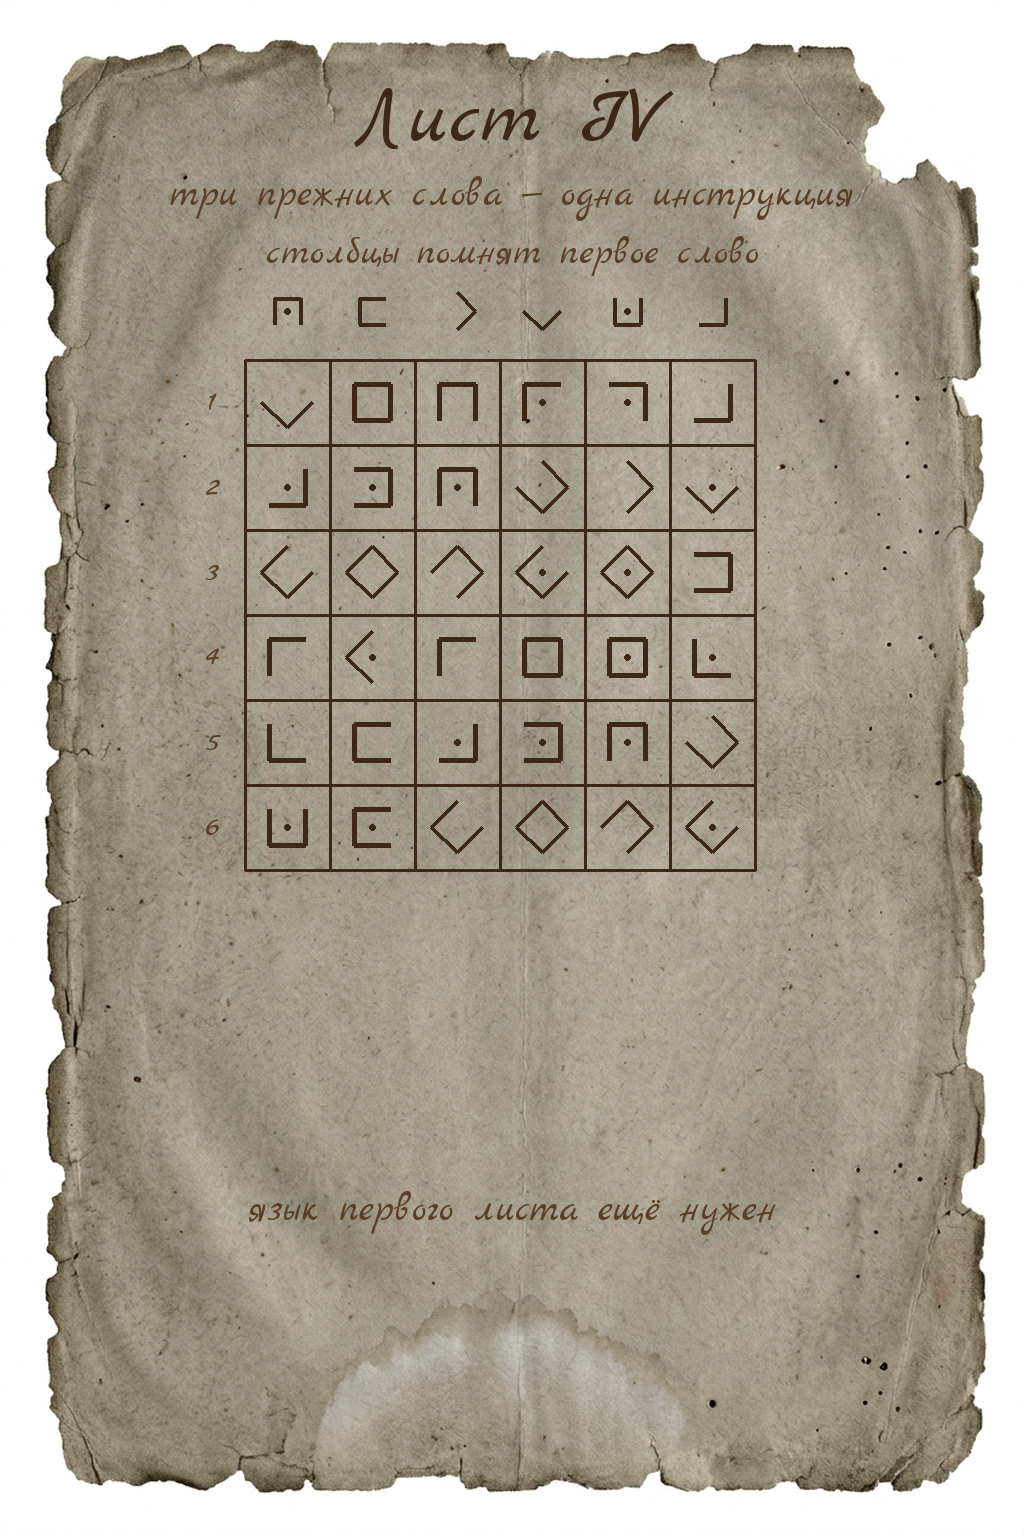
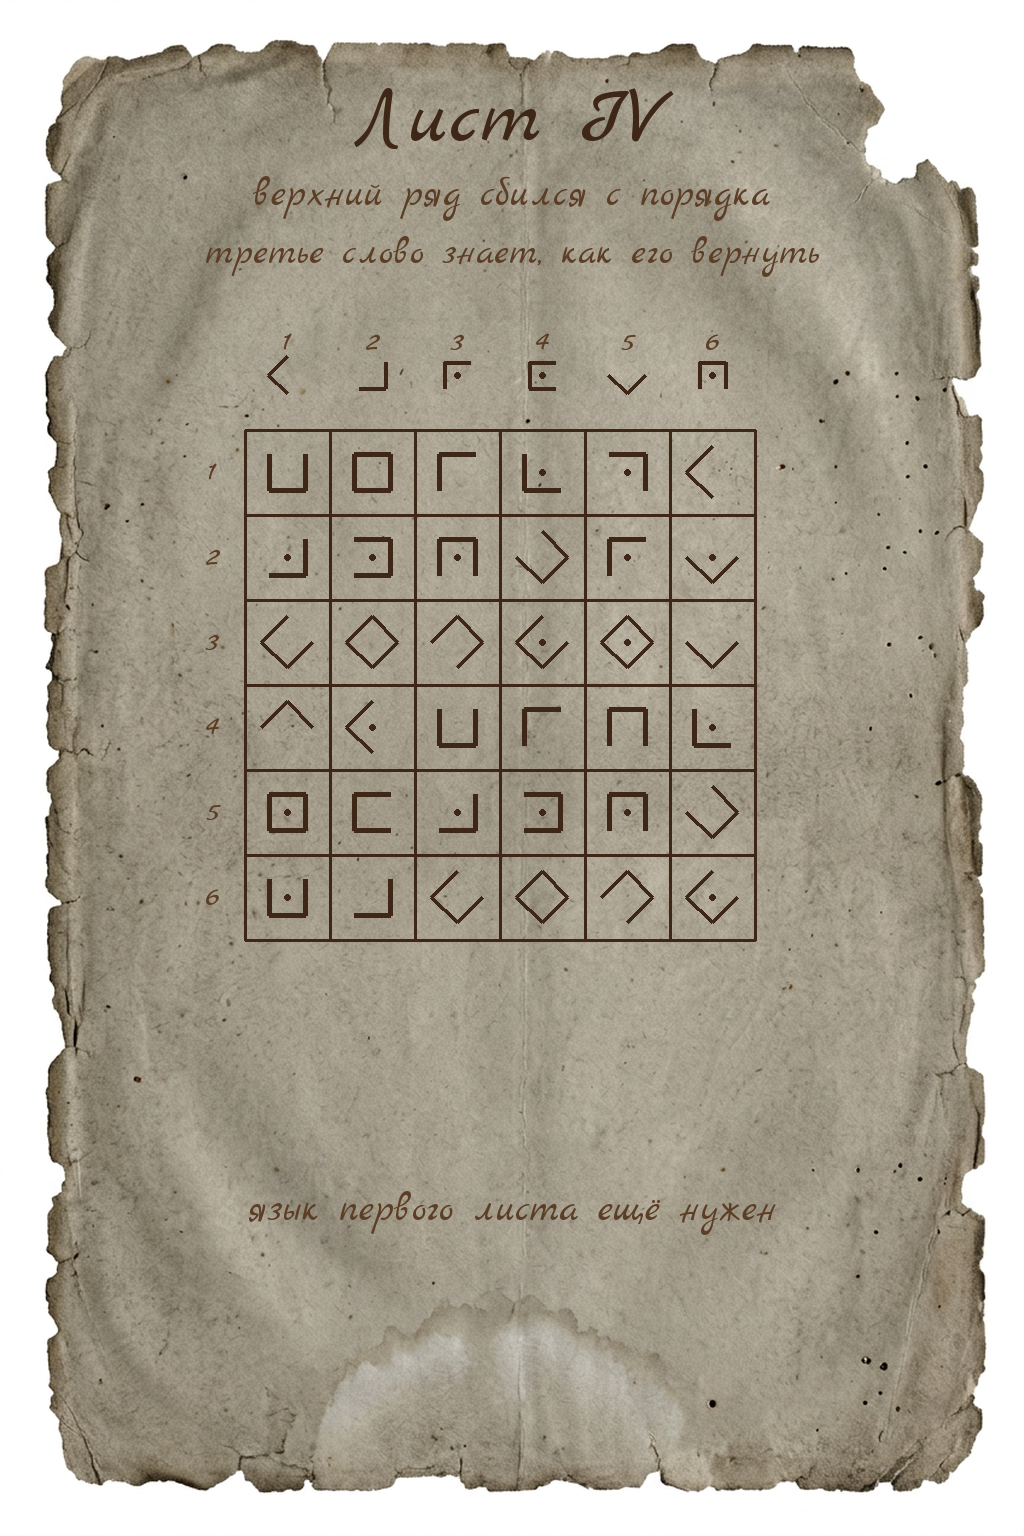
Key N3 sheet IV by a shuffled СТРОФА header.
Decode the pigpen cap as ФАСОТР, restore СТРОФА order, and the column
of each letter becomes the coordinate that reads ИСТИНА.

diff --git a/bot/tools/make_quest_assets.py b/bot/tools/make_quest_assets.py
@@ -665,12 +665,15 @@ def make_n3():
         polybius_pairs.append(f"{index // 6 + 1}{index % 6 + 1}")
     assert len(polybius_alphabet) == 33
     assert polybius_pairs == ["43", "14", "11", "41", "45", "16"]
-    # Финал: язык листа I в клетках, первое слово подписывает столбцы,
-    # пары листа III выбирают знаки. Pigpen этих клеток → ИСТИНА.
-    unique_key = "".join(dict.fromkeys(word1))
-    assert unique_key == "РЕШТКА"
+    # Финал: шапка — перемешанная СТРОФА языком листа I.
+    # Сортировка букв в порядок СТРОФА даёт столбцы по строкам 1…6 → ИСТИНА.
+    keyword = polybius_plain
+    header_key = "ФАСОТР"
+    assert sorted(header_key) == sorted(keyword)
+    assert header_key != keyword
     answer4 = "ИСТИНА"
-    picks = [(int(pair[0]), int(pair[1])) for pair in polybius_pairs]
+    picks = [(index + 1, header_key.index(letter) + 1) for index, letter in enumerate(keyword)]
+    assert picks == [(1, 3), (2, 5), (3, 6), (4, 4), (5, 1), (6, 2)]
     assert len(picks) == len(answer4) == 6
     grid_letters = [[""] * 6 for _ in range(6)]
     for (row, column), letter in zip(picks, answer4):
@@ -809,14 +812,14 @@ def make_n3():
     centered_text(draw, "  ".join(polybius_pairs), 1035, script_font(82), accent)
     page3.save(OUT / "artifact_3c.png", optimize=True)
 
-    # Лист IV: решётка на языке листа I. Столбцы — уникальные буквы РЕШЕТКА.
+    # Лист IV: шапка — перемешанная СТРОФА. Сортировка даёт координаты.
     page4 = parchment_page(PARCHMENT_SOURCE_4)
     draw = ImageDraw.Draw(page4)
     centered_text(draw, "Лист IV", 70, script_font(82), ink)
-    centered_text(draw, "три прежних слова — одна инструкция", 170, script_font(40), faded_ink)
-    centered_text(draw, "столбцы помнят первое слово", 230, script_font(38), faded_ink)
+    centered_text(draw, "верхний ряд сбился с порядка", 170, script_font(40), faded_ink)
+    centered_text(draw, "третье слово знает, как его вернуть", 230, script_font(38), faded_ink)
 
-    grid_x, grid_y, cell = 245, 360, 85
+    grid_x, grid_y, cell = 245, 430, 85
     grid_size = cell * 6
     label_font = script_font(32)
     for index in range(7):
@@ -825,12 +828,16 @@ def make_n3():
         draw.line((grid_x, grid_y + offset, grid_x + grid_size, grid_y + offset), fill=ink, width=3)
     header_scale = 13
     cell_scale = 18
-    for index, letter in enumerate(unique_key):
+    for index, letter in enumerate(header_key):
+        draw.text(
+            (grid_x + index * cell + cell / 2, grid_y - 88),
+            str(index + 1), fill=faded_ink, font=label_font, anchor="mm",
+        )
         draw_pigpen(
             draw,
             (
                 int(grid_x + index * cell + cell / 2 - header_scale),
-                grid_y - 62,
+                grid_y - 68,
             ),
             letter,
             scale=header_scale,
@@ -860,7 +867,7 @@ def make_n3():
     print(f"  N3  pigpen {word1}; crib {crib}")
     print(f"  N3  rail {rail_plain} → {rail_c}")
     print(f"  N3  polybius key={word1} {polybius_plain} → {' '.join(polybius_pairs)}")
-    print(f"  N3  pigpen-grid cols={unique_key} {picks} → {''.join(got)}")
+    print(f"  N3  pigpen-grid header={header_key} sort={keyword} {picks} → {''.join(got)}")
 
 
 # ===================================================================== N4

diff --git a/bot/test_n3_cards.py b/bot/test_n3_cards.py
@@ -82,13 +82,16 @@ class N3CardStyleTests(unittest.TestCase):
     def test_final_sheet_uses_all_three_previous_answers(self):
         source = (REPO_ROOT / "bot" / "tools" / "make_quest_assets.py").read_text(encoding="utf-8")
         n3 = source.split("def make_n3():", 1)[1].split("# ===================================================================== N4", 1)[0]
-        self.assertIn('unique_key == "РЕШТКА"', n3)
+        self.assertIn('header_key = "ФАСОТР"', n3)
+        self.assertIn("sorted(header_key) == sorted(keyword)", n3)
         self.assertIn('answer4 = "ИСТИНА"', n3)
-        self.assertIn("picks = [(int(pair[0]), int(pair[1])) for pair in polybius_pairs]", n3)
-        self.assertIn("столбцы помнят первое слово", n3)
+        self.assertIn("header_key.index(letter) + 1", n3)
+        self.assertIn("верхний ряд сбился с порядка", n3)
+        self.assertIn("третье слово знает, как его вернуть", n3)
         self.assertIn("язык первого листа ещё нужен", n3)
         self.assertIn("draw_pigpen(", n3.split("page4 = parchment_page")[1])
-        self.assertNotIn("шесть пар с прошлого листа ещё не закончили путь", n3)
+        self.assertNotIn('unique_key == "РЕШТКА"', n3)
+        self.assertNotIn("столбцы помнят первое слово", n3)
         self.assertNotIn("Тихий ветер гасит свет пряча архив", n3)
 
     def test_reference_and_open_font_are_bundled(self):

diff --git a/bot/docs/QUEST_WALKTHROUGH.md b/bot/docs/QUEST_WALKTHROUGH.md
@@ -158,22 +158,22 @@ LSB и цветовые каналы **нет** (это уже вход из SIG
 ### Ответ 4 → `ИСТИНА`
 
 Лист IV — квадрат 6×6 из знаков **нового языка** (pigpen листа I).
-Столбцы сверху подписаны pigpen-знаками уникальных букв **РЕШЕТКА**:
-`Р Е Ш Т К А`. Строки слева — `1…6`.
+Столбцы сверху подписаны перемешанными буквами **СТРОФА**:
+`Ф А С О Т Р`. Строки слева и номера столбцов — `1…6`.
 
-1. **РЕШЕТКА** — столбцы идут в порядке уникальных букв первого слова.
-2. **язык листа I** — каждая клетка читается тем же pigpen, что лист I.
-3. **ПОЛИБИЙ + СТРОФА** — пары с листа III `43 14 11 41 45 16`
-   (строка, затем столбец) выбирают шесть клеток.
+1. **язык листа I** — шапка и клетки читаются тем же pigpen, что лист I.
+2. **СТРОФА** — шесть букв сверху нужно вернуть в порядок третьего слова.
+3. Буква `С` стоит в столбце 3 → клетка строки 1. Дальше `Т Р О Ф А`
+   по строкам 2…6.
 
-| коорд | клетка | буква |
-| ----- | ------ | ----- |
-| `43`  | ряд 4, столбец Ш | И |
-| `14`  | ряд 1, столбец Т | С |
-| `11`  | ряд 1, столбец Р | Т |
-| `41`  | ряд 4, столбец Р | И |
-| `45`  | ряд 4, столбец К | Н |
-| `16`  | ряд 1, столбец А | А |
+| буква СТРОФА | столбец шапки | клетка | буква |
+| ------------ | ------------- | ------ | ----- |
+| С | 3 | `13` | И |
+| Т | 5 | `25` | С |
+| Р | 6 | `36` | Т |
+| О | 4 | `44` | И |
+| Ф | 1 | `51` | Н |
+| А | 2 | `62` | А |
 
 Получается **ИСТИНА**. В бота: **ИСТИНА**.
 
